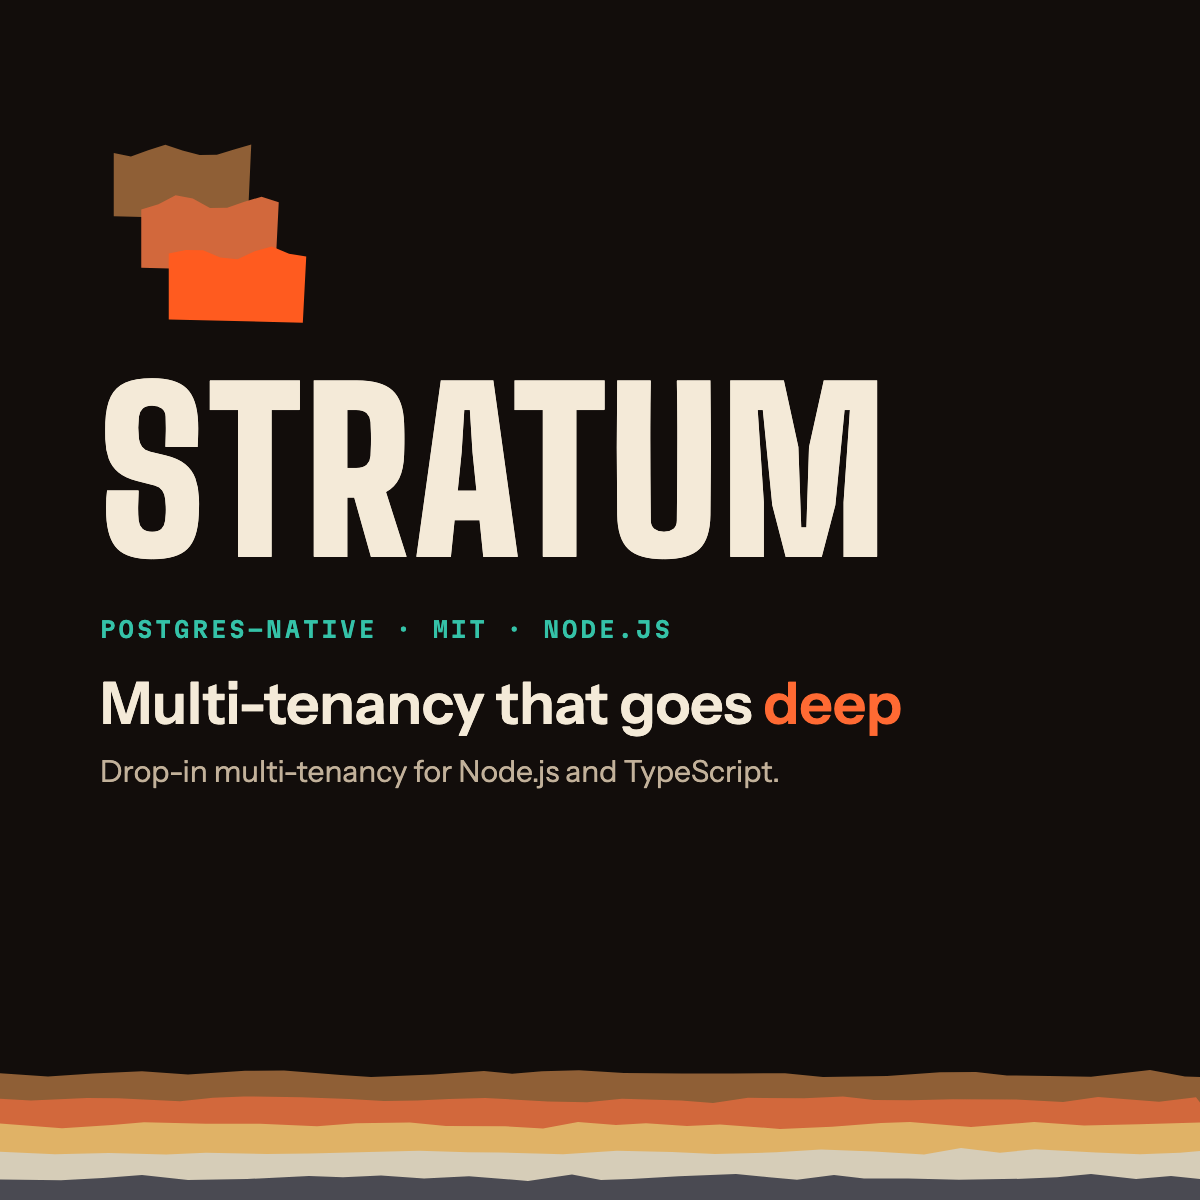
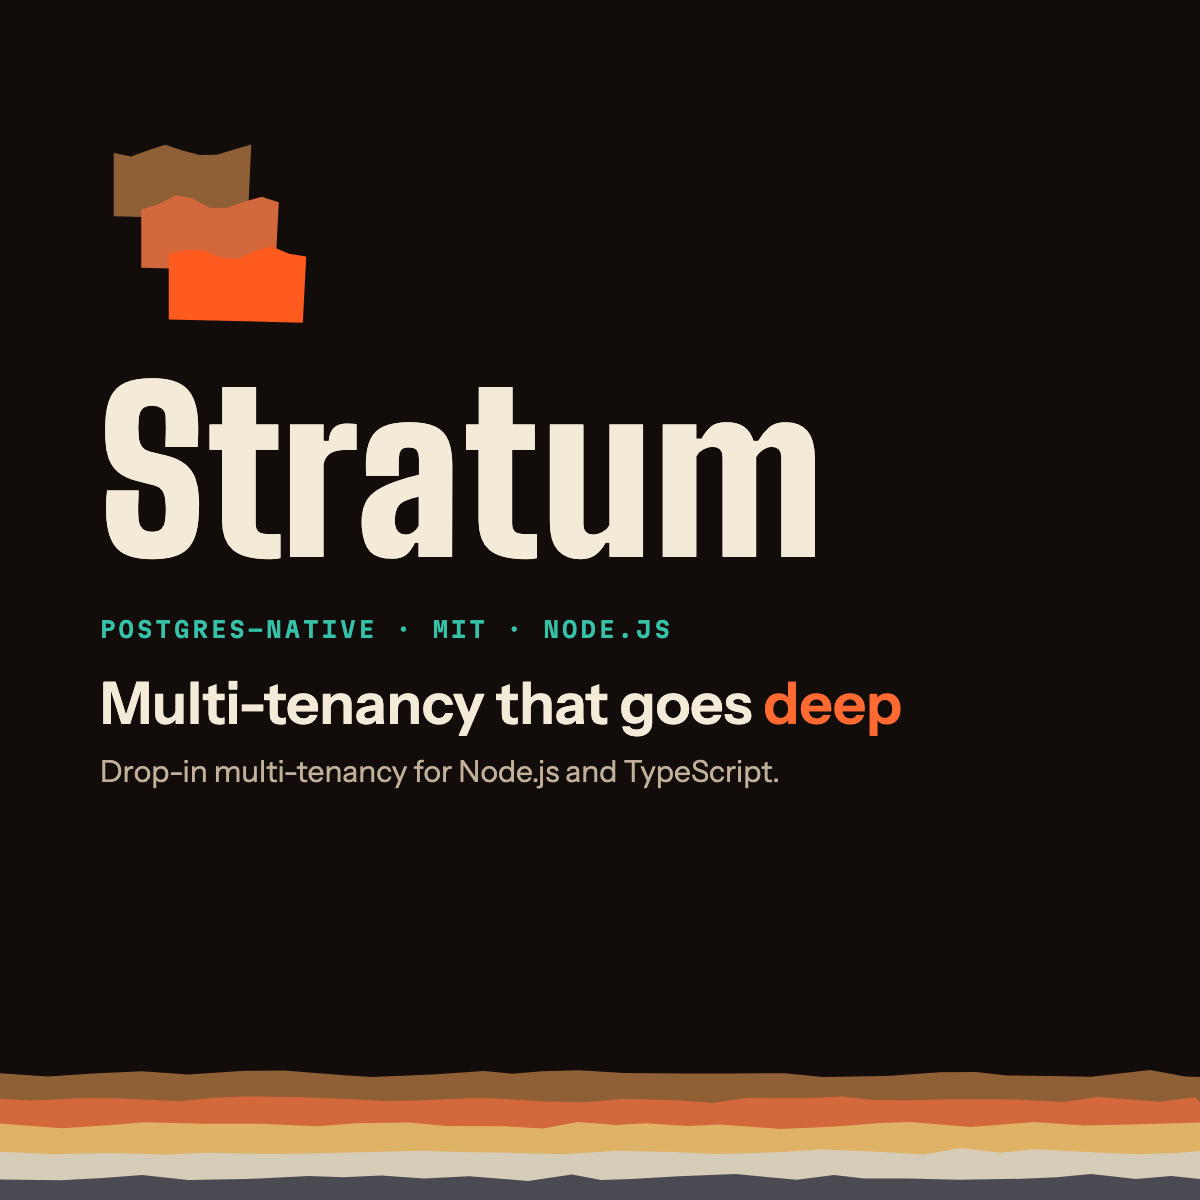
feat(brand): set the lockup wordmark in mixed case
Regenerate the horizontal, stacked and light lockups with "Stratum" in mixed
case, Big Shoulders Display 900, converted to outlines. Re-render og.png,
og-square.png and the docs logo raster for both sites to match, and note the
mixed-case wordmark in DESIGN.md.

Changed region(s): [[0.1542, 0.3083, 0.74, 0.4625]]

diff --git a/DESIGN.md b/DESIGN.md
@@ -260,9 +260,10 @@ work on both themes. Variants live in `assets/brand/`:
 - `stratum-mark-tile.svg`: the mark on a `#120D0B` square tile (favicons, app
   icons).
 - `stratum-lockup.svg` / `stratum-lockup-stacked.svg` / `stratum-lockup-light.svg`:
-  mark plus the wordmark in Big Shoulders Display 900, horizontal, stacked, and
-  for light backgrounds. The wordmark is converted to outlines, so the files do
-  not depend on the font being installed.
+  mark plus the wordmark "Stratum" in mixed case, Big Shoulders Display 900,
+  horizontal, stacked, and for light backgrounds. The wordmark is never set
+  uppercase. It is converted to outlines, so the files do not depend on the
+  font being installed.
 
 Raster exports were regenerated from these SVGs for the Bedrock identity, in
 both `landing/public` and `website/public`: `favicon.ico` (16, 32, 48),
